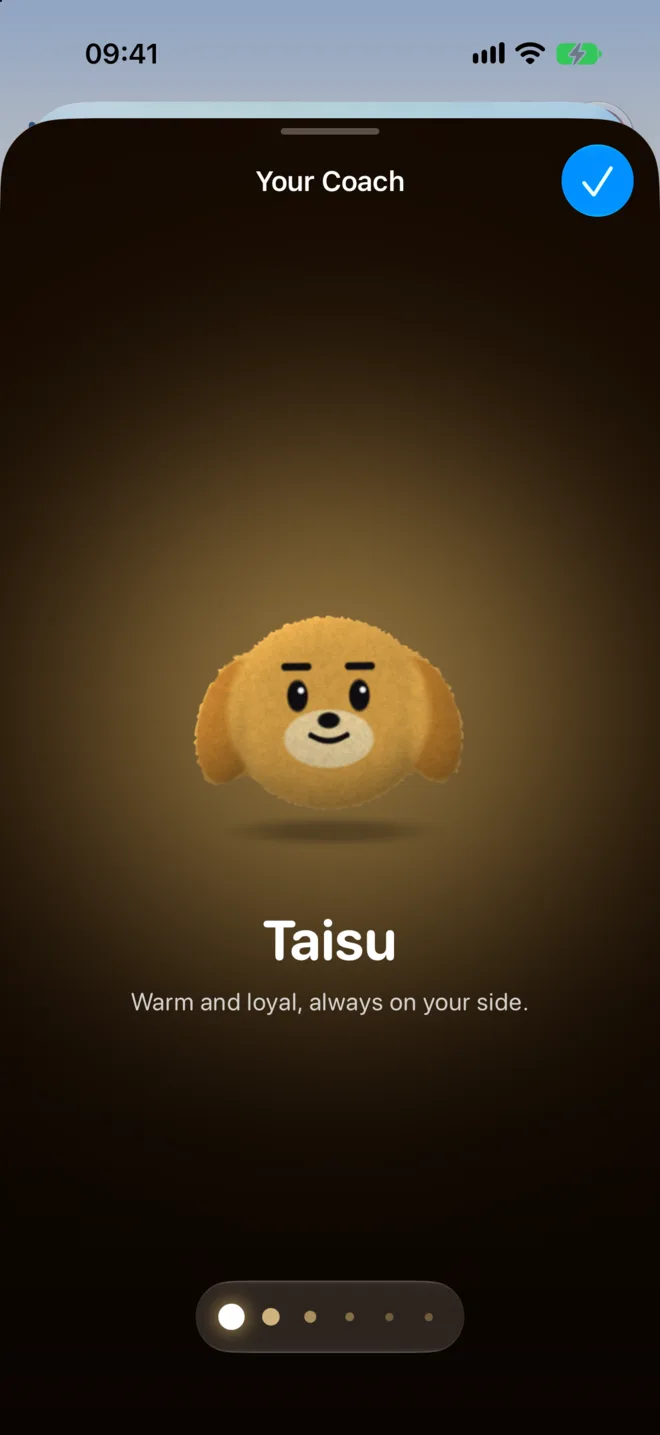
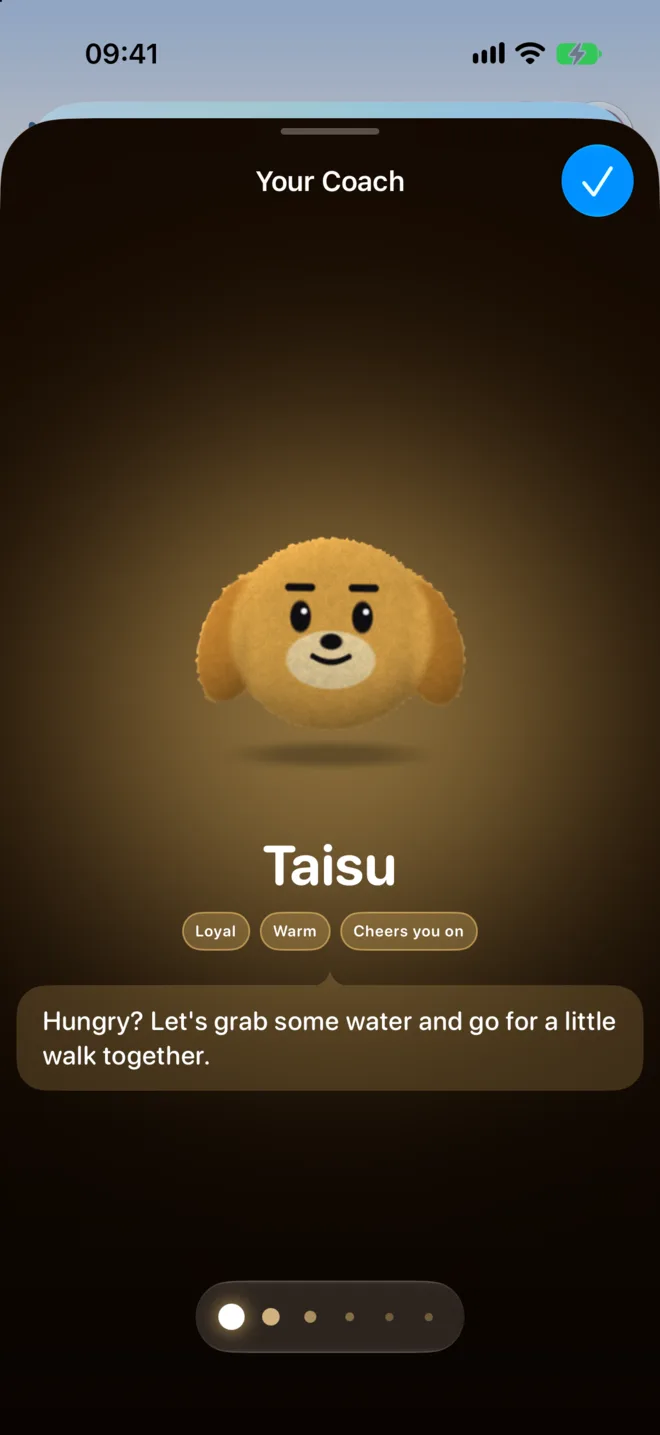
Every claim checked against the app; new picker and guide shots
- Achievements: "Bronze in every challenge, and achievements" (some
  achievements need more habits than the free plan keeps)
- Trial: "1 week free for new subscribers" wherever the site offers it
- Breathing: "Note how each session felt" (moods are logged per session)
- Coach quotes no longer have coaches doing what only the app does
- The coach picker shot is the new one, Taisu introducing itself with
  its three traits; the guide shot shows Now and The Whole Fast
- The progress sheet shot is held until it is retaken without the empty
  space under Complete

Changed region(s): [[0.0, 0.3679, 1.0, 0.7666], [0.7576, 0.0613, 0.8788, 0.092], [0.5455, 0.0613, 0.6667, 0.092]]

diff --git a/app/page.tsx b/app/page.tsx
@@ -129,7 +129,7 @@ const freeBenefits = [
   'Up to 5 habits and 3 saved places',
   'Fasting and breathing, with the full Fasting Guide',
   'Taisu, your first fasting coach',
-  'Bronze medals and every achievement',
+  'Bronze in every challenge, and achievements',
   'Every progress chart',
   'Apple Health, Apple Watch, widgets, Siri and iCloud',
 ];
@@ -144,7 +144,7 @@ const proBenefits = [
 ];
 
 const plans = [
-  { name: 'Annual', price: '$49.99', cadence: 'a year', note: 'Starts with 1 week free', featured: true },
+  { name: 'Annual', price: '$49.99', cadence: 'a year', note: '1 week free for new subscribers', featured: true },
   { name: 'Monthly', price: '$9.99', cadence: 'a month', note: 'Cancel anytime' },
   { name: 'Lifetime', price: '$99.99', cadence: 'once', note: 'Pay once, Pro for good' },
 ];
@@ -173,7 +173,7 @@ const faqItems = [
   {
     question: 'How do I cancel Pro?',
     answer:
-      'In your App Store account settings, under Subscriptions, anytime. Cancel during the free week and you pay nothing. Lifetime is paid once and never renews.',
+      'In your App Store account settings, under Subscriptions, anytime. If you’re new to Pro, Annual starts with a free week, and cancelling during it costs nothing. Lifetime is paid once and never renews.',
   },
 ];
 
@@ -253,10 +253,10 @@ function PlanStrip({ placement }: { placement: string }) {
       href="#pricing"
       onClick={() => track('plan_strip_click', 'conversion', placement)}
       className="group flex flex-wrap items-stretch justify-center gap-2 lg:justify-start"
-      aria-label="Ritualist is free to download. Pro: Annual $49.99 a year with 1 week free, Monthly $9.99, or Lifetime $99.99. See the plans."
+      aria-label="Ritualist is free to download. Pro: Annual $49.99 a year, with 1 week free for new subscribers, Monthly $9.99, or Lifetime $99.99. See the plans."
     >
       <span className="flex flex-col rounded-2xl bg-gradient-to-br from-[#ffcf4d] to-[#ff9f0a] px-3.5 py-2 text-left text-[#2a1800] shadow-[0_10px_30px_rgba(255,159,10,0.35)] transition group-hover:-translate-y-0.5">
-        <span className="text-[10px] font-extrabold uppercase tracking-wider">Annual · 1 week free</span>
+        <span className="text-[10px] font-extrabold uppercase tracking-wider">Annual · new? 1 week free</span>
         <span className="text-base font-extrabold leading-tight">$49.99<span className="text-xs font-bold"> /year</span></span>
       </span>
       <span className="flex flex-col rounded-2xl border border-white/20 bg-white/10 px-3.5 py-2 text-left text-white transition group-hover:-translate-y-0.5">
@@ -742,12 +742,12 @@ function PausableShot({
 
 // On small screens each scene's line is said by one of the coaches, in its own voice.
 const sceneQuotes: Record<string, { coach: string; file: string; quote: string }> = {
-  habits: { coach: 'Taisu', file: 'coach-taisu', quote: 'One tap and today counts. I’ll cheer every single one.' },
+  habits: { coach: 'Taisu', file: 'coach-taisu', quote: 'One tap and today counts. Every single one!' },
   fasting: { coach: 'Wren', file: 'coach-wren', quote: 'I’ll walk you through every phase of your fast.' },
-  breathing: { coach: 'Moss', file: 'coach-moss', quote: 'Breathe with me. There’s never a rush.' },
-  places: { coach: 'Pip', file: 'coach-pip', quote: 'Walk into the gym and I’ll remind you to drink water!' },
+  breathing: { coach: 'Moss', file: 'coach-moss', quote: 'Breathe slowly. There’s never a rush.' },
+  places: { coach: 'Pip', file: 'coach-pip', quote: 'Save the gym, and water reminds you as you walk in!' },
   gallery: { coach: 'Luna', file: 'coach-luna', quote: 'Pick any of 150+ habits. Starting small is fine.' },
-  reminders: { coach: 'Bruno', file: 'coach-bruno', quote: 'Right time, right place. I’ll remind you.' },
+  reminders: { coach: 'Bruno', file: 'coach-bruno', quote: 'Right time, right place. You’ll be reminded.' },
 };
 
 function CoachQuote({ sceneKey, className, align = 'center' }: { sceneKey: string; className?: string; align?: 'center' | 'start' }) {
@@ -1137,7 +1137,7 @@ function PricingSection() {
             <div className="mt-8 flex flex-col items-center gap-3 text-center sm:flex-row sm:text-left">
               <AppStoreBadge placement="pricing_pro" />
               <p className="text-xs leading-5 text-slate-600 dark:text-slate-300">
-                Download free, then start your free week in the app. Prices in US dollars; the App Store shows yours. Monthly and Annual renew until cancelled.
+                Download free; new subscribers start Annual with a free week in the app. Prices in US dollars; the App Store shows yours. Monthly and Annual renew until cancelled.
               </p>
             </div>
           </motion.div>
@@ -1285,7 +1285,7 @@ function MobileAppStoreBar() {
           <Image src="/brand-icon-128.png" alt="" width={36} height={36} className="rounded-[9px]" />
           <div className="min-w-0">
             <p className="text-sm font-bold text-[#15181c] dark:text-white">Ritualist</p>
-            <p className="truncate text-xs text-slate-600 dark:text-slate-300">Annual Pro: 1 week free</p>
+            <p className="truncate text-xs text-slate-600 dark:text-slate-300">New to Pro? 1 week free</p>
           </div>
         </div>
         <AppStoreBadge placement="sticky_mobile" size="small" />
@@ -1318,7 +1318,6 @@ export default function Home() {
               tint="bg-[#34c759]/25"
               back={{ src: shot('month'), alt: 'A month of finished days in green and orange' }}
               front={[
-                { src: shot('log-water'), alt: 'Logging water: 6 of 8 glasses, with +1 and Complete' },
                 { src: shot('habit-stats'), alt: "A habit's stats: progress trend and a month of completed days" },
                 { src: shot('patterns'), alt: 'Patterns: categories and your weekly rhythm, Tuesday the best day' },
               ]}
@@ -1369,7 +1368,7 @@ export default function Home() {
                   back={{ src: shot('guide'), alt: 'The Fasting Guide: the phase you are in and what comes next' }}
                   front={[
                     { src: shot('guide-coach'), alt: 'The Fasting Guide with Taisu the coach and help for hunger or headaches' },
-                    { src: shot('coach-picker'), alt: 'Choosing your coach: Taisu, warm and loyal' },
+                    { src: shot('coach-picker'), alt: 'Choosing your coach: Taisu, loyal and warm, introduces itself' },
                   ]}
                 />
                 <motion.div {...reveal} className="absolute -bottom-4 left-0 w-[70%] drop-shadow-[0_24px_30px_rgba(0,0,0,0.5)] sm:w-[60%]">
@@ -1401,7 +1400,7 @@ export default function Home() {
           accent="#a8f0ff"
           title="Breathing you can see, and feel."
           body="Follow the shape as it swells and settles, while your iPhone taps along with every breath. It works with your eyes closed."
-          points={['Box breathing, 4-7-8, cyclic sighing and more', 'Note how you feel before and after', 'Counts as mindful minutes in Apple Health']}
+          points={['Box breathing, 4-7-8, cyclic sighing and more', 'Note how each session felt', 'Counts as mindful minutes in Apple Health']}
           visual={
             <motion.div {...reveal} className="relative mx-auto w-full max-w-[280px] sm:max-w-[320px]">
               <CyclingPhone
